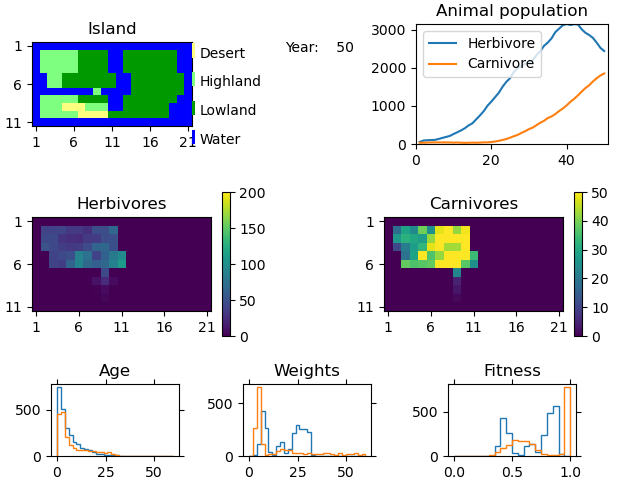
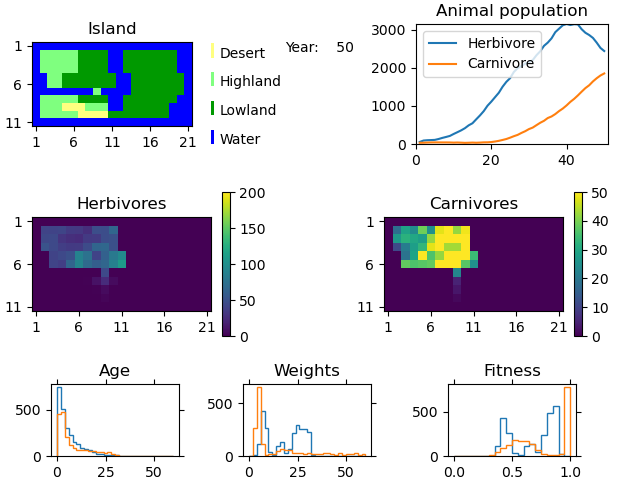
changed a bit on the figure so thing does not lay on top of each other

diff --git a/biosim_template/tests/test_landscape.py b/biosim_template/tests/test_landscape.py
@@ -11,6 +11,7 @@ pop_2 = [{'species': 'Carnivore', 'age': 5, 'weight': 20} for _ in range(50)]
 
 pop_3 = [{'species': 'Carnivore', 'age': 5, 'weight': 20} for _ in range(20)]
 
+
 def test_pop_animals():
     """Test if it counts the list of herbivores and carnivores correctly"""
     cell = Lowland()
@@ -19,7 +20,7 @@ def test_pop_animals():
     assert cell.num_herbivores(), cell.num_carnivores() == 50
 
 
-def test_pop_animals_ValueError():
+def test_pop_animals_error():
     """Checks if the program raises a ValueError if wrong species"""
     with pytest.raises(ValueError):
         cell = Lowland()
@@ -138,6 +139,7 @@ def test_invalid_food_param(reset_food_params):
     with pytest.raises(KeyError):
         Lowland.food_params({'food': 600})
 
+
 def test_herbivore_eats_rest(reset_food_params):
     """Tests if the herbivore eats the rest of the food"""
     Lowland.food_params({'f_max': 95})
@@ -172,7 +174,6 @@ def test_immigration():
     cell.immigrating_carnivores = pop_3
     cell.immigration()
     assert len(cell.immigrating_carnivores) == 0 and len(cell.carnivores) == len(pop_1) + len(pop_3)
-
 
 
 def test_list_herbivore_ages():
@@ -211,6 +212,3 @@ def test_list_carnivore_fitness():
     cell = Lowland(carnivores=[Carnivore(3, 50)])
     assert type(cell.list_carnivores_fitness()) == list and \
            cell.list_carnivores_fitness() == [Carnivore(3, 50)._fitness]
-
-
-

diff --git a/biosim_template/src/biosim/graphics.py b/biosim_template/src/biosim/graphics.py
@@ -282,7 +282,7 @@ class Graphics:
             self._island_img.set_yticklabels(range(1, 1 + len(map_rgb), 5))
 
             # Adds description on what terrain the different colors represent
-            ax_lg = self._fig.add_axes([0.3, 0.7, 0.05, 0.3])  # llx, lly, w, h
+            ax_lg = self._fig.add_axes([0.33, 0.7, 0.05, 0.3])  # llx, lly, w, h
             ax_lg.axis('off')
             for ix, name in enumerate(('Water', 'Lowland',
                                        'Highland', 'Desert')):

diff --git a/biosim_template/tests/test_island.py b/biosim_template/tests/test_island.py
@@ -60,10 +60,11 @@ def test_new_animals():
     cell.new_animals(ini_herbs)
     assert cell.amount_of_herbivores() == 100
 
+
 def test_animal_on_water():
     """Tests if it returns Value Error if animals are set on Water"""
     with pytest.raises(ValueError):
-        Island(geogr, ini_herbs_water )
+        Island(geogr, ini_herbs_water)
 
 
 def test_herbivore_map():
